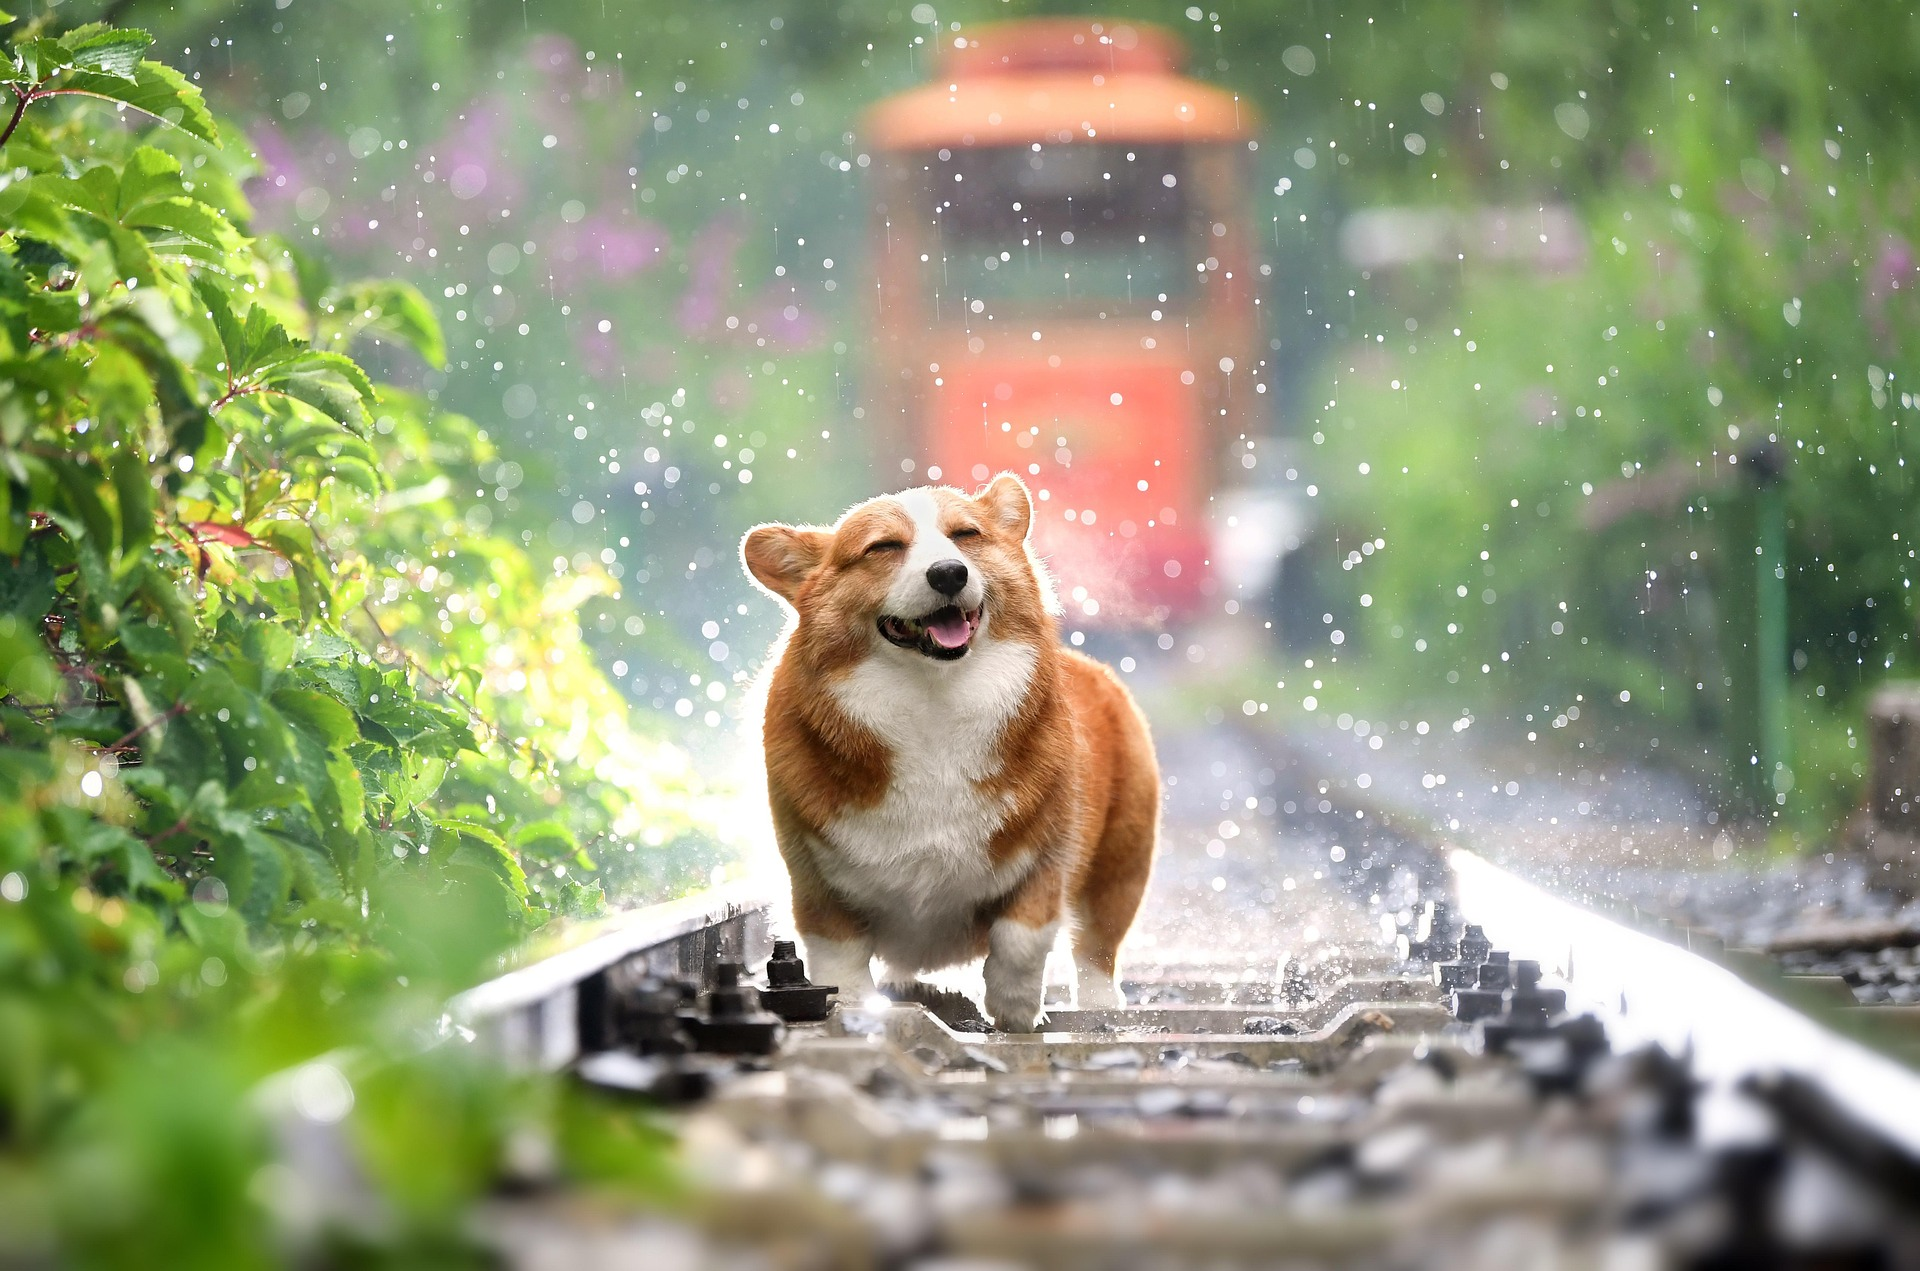
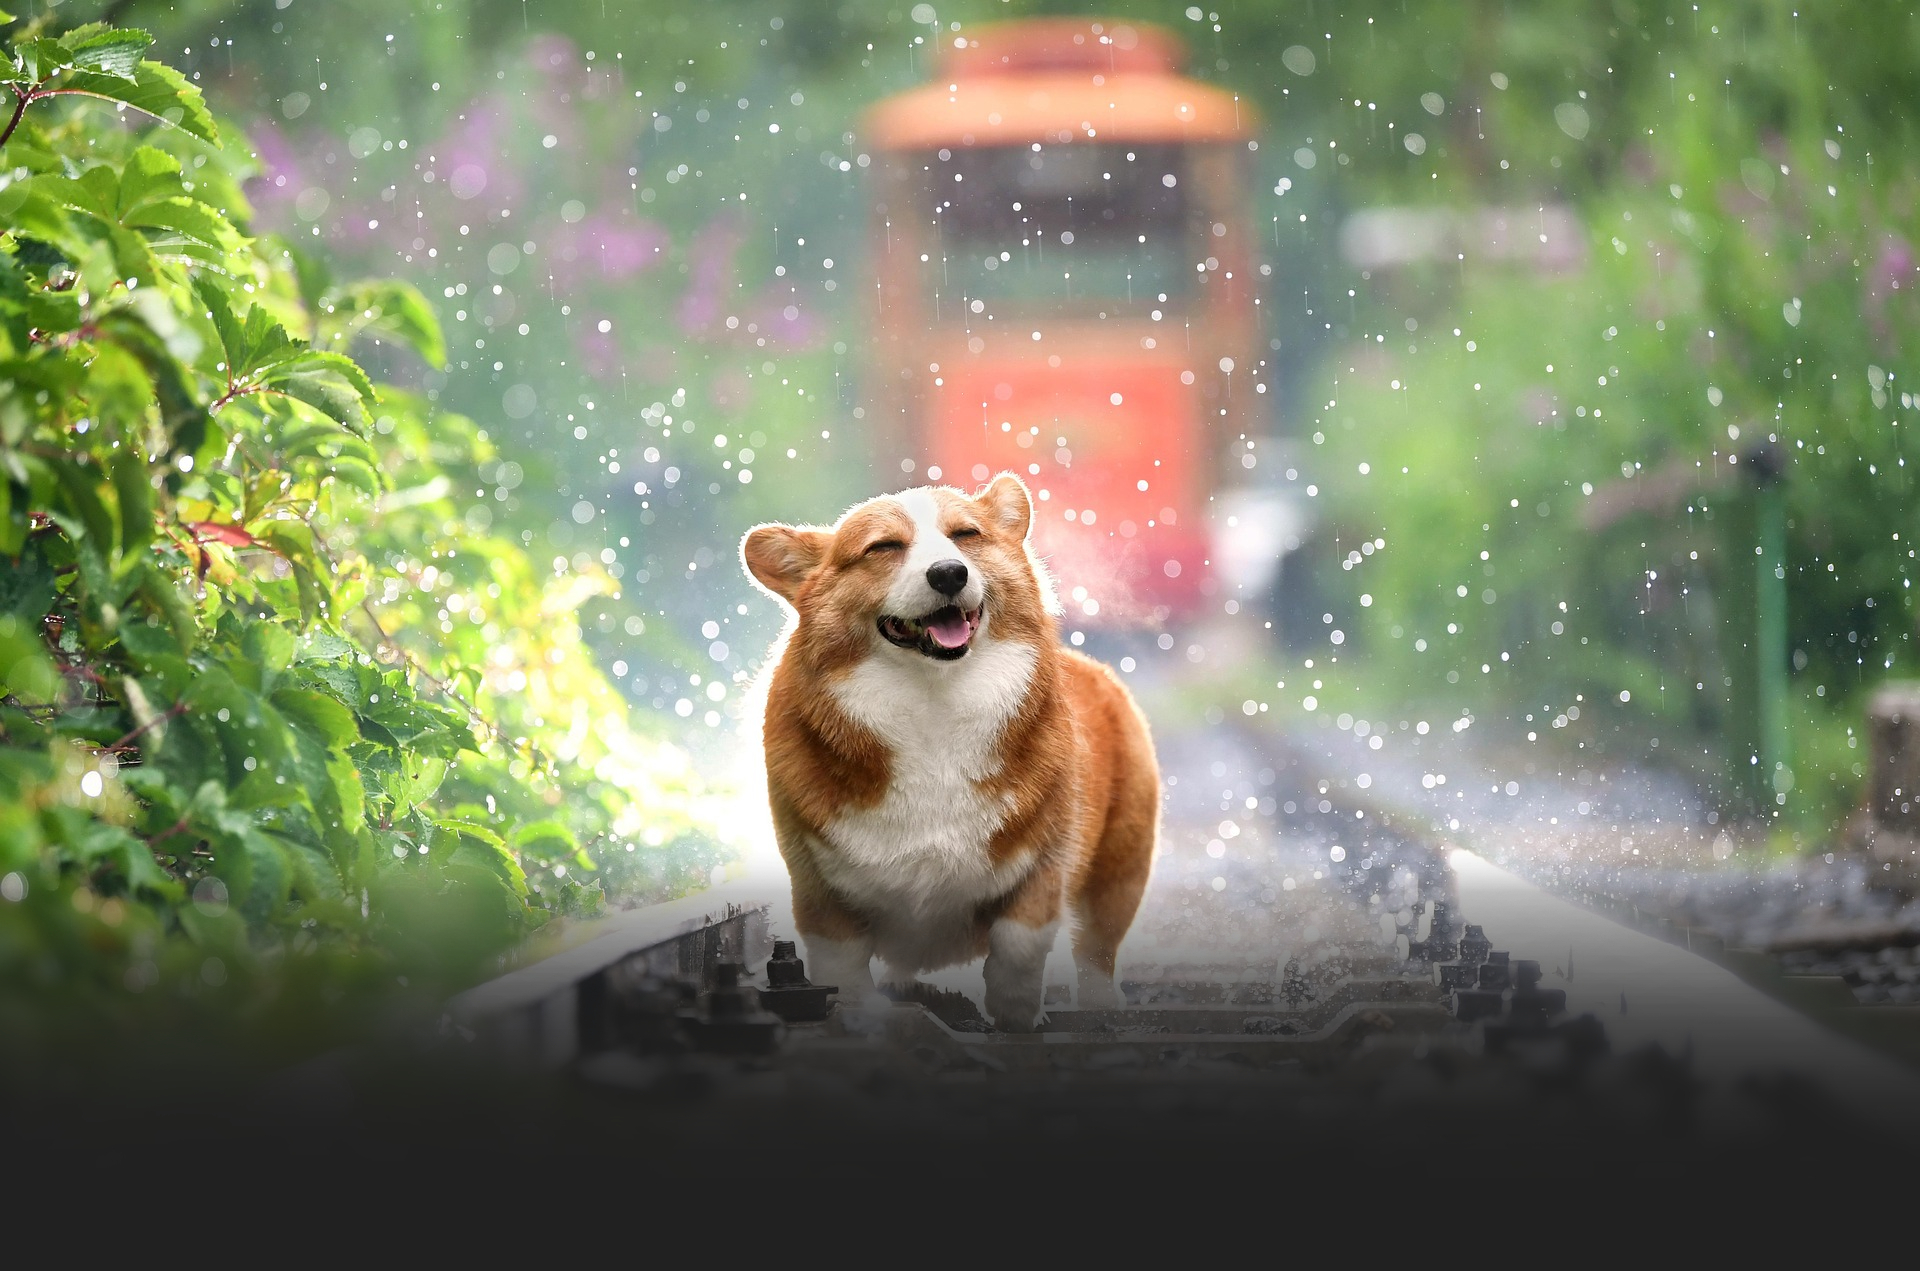
parcheado actualizacion perfil + mensajes error

Changed region(s): [[0.0, 0.6751, 1.0, 1.0]]

diff --git a/maximum/public/css/custom/inputs.css b/maximum/public/css/custom/inputs.css
@@ -77,12 +77,11 @@
 }
 
 .form-login input {
-    padding: 10px;
-    padding-left: 15px;
+        padding-left: 15px;
 }
 
 .form-login input:focus {
-    border: 5px solid;
+    border: 1px solid;
     border-color: gray;
     --tw-ring-color: transparent;
 }

diff --git a/maximum/resources/views/contact.blade.php b/maximum/resources/views/contact.blade.php
@@ -4,6 +4,107 @@
     @endif --}}
     <div class="bg-white h-56 info text-black">
     </div>
+    <form method="post" action="{{ route('profile.update') }}" class="mt-6 space-y-6" enctype="multipart/form-data">
+        @csrf
+        @method('patch')
+
+        <div class="flex">
+            <img class="mt-2 rounded-full w-24 h-24 sm:w-28 sm:h-28" src="{{ 'storage/' . auth()->user()->ruta_imagen }}">
+            <div class="py-8 mt-auto">
+                <div class="file-input flex items-center">
+                    <div class="flex items-center">
+                        <!-- File Input -->
+                        <div class="ml-5 rounded-md shadow-sm">
+                            <!-- Replace the file input styles with our own via the label -->
+                            <input type="file" name="imagen" id="imagen" class="custom">
+                            <label for="imagen"
+                                class="py-2 px-3 border border-gray-300 rounded-md text-sm leading-4 font-medium text-gray-700 hover:text-indigo-500 hover:border-indigo-300 focus:outline-none focus:border-indigo-300 focus:shadow-outline-indigo active:bg-gray-50 active:text-indigo-800 transition duration-150 ease-in-out">
+                                Cargar foto
+                            </label>
+                        </div>
+                    </div>
+
+                </div>
+            </div>
+
+        </div>
+        <p class="text-sm text-gray-400">Selecciona una nueva imagen de perfil y presione "Actualizar" para aplicar
+            los cambios.</p>
+        <div class="grid grid-cols-1 lg:grid-cols-2 gap-5">
+            <div>
+                <x-input-label for="nombre" :value="__('Nombre')" />
+                <x-text-input id="nombre" name="nombre" type="text" class="mt-1 block w-full" :value="old('nombre', auth()->user()->nombre)"
+                    required autofocus autocomplete="nombre" />
+                <x-input-error class="mt-2" :messages="$errors->get('nombre')" />
+            </div>
+
+            <div>
+                <x-input-label for="apellidos" :value="__('Apellidos')" />
+                <x-text-input id="apellidos" name="apellidos" type="text" class="mt-1 block w-full" :value="old('apellidos', auth()->user()->apellidos)"
+                    autofocus autocomplete="apellidos" />
+                <x-input-error class="mt-2" :messages="$errors->get('apellidos')" />
+            </div>
+        </div>
+        <div class="grid grid-cols-1 lg:grid-cols-2 gap-5">
+            <div>
+                <x-input-label for="dni" :value="__('Dni')" />
+                <x-text-input id="dni" name="dni" type="text" class="mt-1 block w-full" :value="old('dni', auth()->user()->dni)"
+                    autofocus autocomplete="dni" />
+                <x-input-error class="mt-2" :messages="$errors->get('dni')" />
+            </div>
+            <div>
+                <x-input-label for="fecha_nacimiento" :value="__('Fecha nacimiento')" />
+                <x-text-input id="fecha_nacimiento" name="fecha_nacimiento" type="date" class="mt-1 block w-full"
+                    :value="old('fecha_nacimiento', auth()->user()->fecha_nacimiento)" autofocus autocomplete="fecha_nacimiento" />
+                <x-input-error class="mt-2" :messages="$errors->get('fecha_nacimiento')" />
+            </div>
+
+        </div>
+
+        <div class="grid grid-cols-1 lg:grid-cols-2 gap-5">
+            <div>
+                <x-input-label for="email" :value="__('Correo electrónico')" />
+                <x-text-input id="email" name="email" type="email" class="mt-1 block w-full" :value="old('email', auth()->user()->email)"
+                    required autocomplete="username" />
+                <x-input-error class="mt-2" :messages="$errors->get('email')" />
+            </div>
+            <div>
+                <x-input-label for="telefono" :value="__('Teléfono')" />
+                <x-text-input id="telefono" name="telefono" type="tel" class="mt-1 block w-full"
+                    :value="old('telefono', auth()->user()->telefono)" autofocus autocomplete="telefono" />
+                <x-input-error class="mt-2" :messages="$errors->get('telefono')" />
+            </div>
+
+
+            @if (auth()->user() instanceof \Illuminate\Contracts\Auth\MustVerifyEmail && !$user->hasVerifiedEmail())
+                <div>
+                    <p class="text-sm mt-2 text-gray-800">
+                        {{ __('Your email address is unverified.') }}
+
+                        <button form="send-verification"
+                            class="underline text-sm text-gray-600 hover:text-gray-900 rounded-md focus:outline-none focus:ring-2 focus:ring-offset-2 focus:ring-indigo-500">
+                            {{ __('Click here to re-send the verification email.') }}
+                        </button>
+                    </p>
+
+                    @if (session('status') === 'verification-link-sent')
+                        <p class="mt-2 font-medium text-sm text-green-600">
+                            {{ __('A new verification link has been sent to your email address.') }}
+                        </p>
+                    @endif
+                </div>
+            @endif
+        </div>
+
+        <div class="flex items-center gap-4">
+            <x-primary-button>{{ __('Actualizar') }}</x-primary-button>
+            <?php dump(session('status')); ?>
+            @if (session('status') === 'profile-updated')
+                <p x-data="{ show: true }" x-show="show" x-transition x-init="setTimeout(() => show = false, 2000)"
+                    class="text-sm text-gray-600">{{ __('Actualizado.') }}</p>
+            @endif
+        </div>
+    </form>
     <div class="absolute flex justify-around  info-contact w-full">
         <div>
             <div class="flex">

diff --git a/maximum/resources/views/auth/login.blade.php b/maximum/resources/views/auth/login.blade.php
@@ -3,7 +3,7 @@
     <x-auth-session-status class="mb-4" :status="session('status')" />
 
     <h1 class="text-5xl">Iniciar sesión</h1>
-    <p>¿Todavía no tienes cuenta? <a href="{{ route('register') }}" class="text-blue-600">¡Registraté!</a></p>
+    <p>¿Todavía no tienes cuenta? <a href="{{ route('register') }}" class="text-blue-600 outline-none">¡Registraté!</a></p>
     <div class="w-full sm:max-w-md mt-6 px-6 py-4 bg-white shadow-md overflow-hidden sm:rounded-lg form-login">
         <form method="POST" action="{{ route('login') }}">
             @csrf
@@ -12,24 +12,25 @@
             <div>
                 <x-input-label for="email" :value="__('Correo electrónico')" />
 
-                <input type="text" id="email" name="email" class=" rounded w-full mt-1 " placeholder="Correo electrónico" required>
+                <input type="text" id="email" name="email" class=" rounded w-full mt-1 " placeholder="Correo electrónico" >
+                <x-input-error :messages="$errors->get('email')" class="mt-2" />
+
                 {{-- <x-text-input id="email" class="block mt-1 w-full" type="email" name="email" :value="old('email')"
-                    required autofocus autocomplete="username" />
-                <x-input-error :messages="$errors->get('email')" class="mt-2" /> --}}
+                    required autofocus autocomplete="username" /> --}}
             </div>
 
             <!-- Password -->
             <div class="mt-4">
-                <x-input-label for="password" :value="__('Correo electrónico')" />
-
-                <input type="password" id="password" name="password" class="rounded w-full mt-1" placeholder="Contraseña" required>
+                <x-input-label for="password" :value="__('Contraseña')" />
+                <input type="password" id="password" name="password" class="rounded w-full mt-1" placeholder="Contraseña" >
+                <x-input-error :messages="$errors->get('password')" class="mt-2" />
             </div>
 
             <!-- Remember Me -->
             <div class="block mt-4">
                 <label for="remember_me" class="inline-flex items-center">
                     <input id="remember_me" type="checkbox"
-                        class="rounded border-gray-300 text-indigo-600 shadow-sm focus:ring-indigo-500" name="remember">
+                        class="rounded border-gray-300 text-amber-600 shadow-sm focus:ring-amber-500 " name="remember">
                     <span class="ml-2 text-sm text-gray-600">{{ __('Recordarme') }}</span>
                 </label>
             </div>

diff --git a/maximum/resources/views/auth/register.blade.php b/maximum/resources/views/auth/register.blade.php
@@ -7,7 +7,7 @@
 
             <!-- Name -->
             <div>
-                <x-input-label for="name" :value="__('Name')" />
+                <x-input-label for="name" :value="__('Nombre')" />
                 <x-text-input id="name" class="block mt-1 w-full" type="text" name="name" :value="old('name')"
                     required autofocus autocomplete="name" />
                 <x-input-error :messages="$errors->get('name')" class="mt-2" />
@@ -15,7 +15,7 @@
 
             <!-- Email Address -->
             <div class="mt-4">
-                <x-input-label for="email" :value="__('Email')" />
+                <x-input-label for="email" :value="__('Correo electrónico')" />
                 <x-text-input id="email" class="block mt-1 w-full" type="email" name="email" :value="old('email')"
                     required autocomplete="username" />
                 <x-input-error :messages="$errors->get('email')" class="mt-2" />
@@ -23,7 +23,7 @@
 
             <!-- Password -->
             <div class="mt-4">
-                <x-input-label for="password" :value="__('Password')" />
+                <x-input-label for="password" :value="__('Contraseña')" />
 
                 <x-text-input id="password" class="block mt-1 w-full" type="password" name="password" required
                     autocomplete="new-password" />
@@ -33,7 +33,7 @@
 
             <!-- Confirm Password -->
             <div class="mt-4">
-                <x-input-label for="password_confirmation" :value="__('Confirm Password')" />
+                <x-input-label for="password_confirmation" :value="__('Confirmar contraseña')" />
 
                 <x-text-input id="password_confirmation" class="block mt-1 w-full" type="password"
                     name="password_confirmation" required autocomplete="new-password" />
@@ -44,7 +44,7 @@
             <div class="flex items-center justify-end mt-4">
                 <a class="underline text-sm text-gray-600 hover:text-gray-900 rounded-md focus:outline-none focus:ring-2 focus:ring-offset-2 focus:ring-indigo-500"
                     href="{{ route('login') }}">
-                    {{ __('Already registered?') }}
+                    {{ __('¿Tienes cuenta?') }}
                 </a>
 
                 <x-primary-button class="ml-4">

diff --git a/maximum/app/Http/Controllers/ProfileController.php b/maximum/app/Http/Controllers/ProfileController.php
@@ -24,8 +24,9 @@ class ProfileController extends Controller
     /**
      * Update the user's profile information.
      */
-    public function update(ProfileUpdateRequest $request): RedirectResponse
+    public function updateprofile(ProfileUpdateRequest $request)
     {
+
         $request->user()->fill($request->validated());
 
         if ($request->user()->isDirty('email')) {
@@ -41,7 +42,7 @@ class ProfileController extends Controller
 
         $request->user()->save();
 
-        return Redirect::route('dashboard')->with('status', 'profile-updated');
+        return Redirect::route('dashboard')->with('status', 'profile-updated-1');
     }
 
     public function address(Request $request): RedirectResponse
@@ -57,7 +58,7 @@ class ProfileController extends Controller
         $request->user()->fill($request->validate($rules));
         $request->user()->save();
 
-        return Redirect::route('dashboard')->with('status', 'profile-updated');
+        return Redirect::route('dashboard')->with('status', 'profile-updated-2');
     }
 
     /**

diff --git a/maximum/app/Http/Requests/Auth/LoginRequest.php b/maximum/app/Http/Requests/Auth/LoginRequest.php
@@ -26,11 +26,21 @@ class LoginRequest extends FormRequest
      */
     public function rules(): array
     {
-        return [
-            'email' => ['required', 'string', 'email'],
+        return ([
+            'email' => ['required', 'email'],
             'password' => ['required', 'string'],
-        ];
+        ]);
     }
+
+    public function messages(): array
+    {
+        return ([
+                'email.email' => 'El email introducido no tiene el formato adecuado.',
+                'password.required' => 'Introduce una contraseña.',
+                'email.required' => 'Introduce un correo electrónico.'
+        ]);
+    }
+
 
     /**
      * Attempt to authenticate the request's credentials.
@@ -45,7 +55,7 @@ class LoginRequest extends FormRequest
             RateLimiter::hit($this->throttleKey());
 
             throw ValidationException::withMessages([
-                'email' => trans('auth.failed'),
+                $this->messages()
             ]);
         }
 

diff --git a/maximum/resources/views/profile/partials/update-profile-information-form.blade.php b/maximum/resources/views/profile/partials/update-profile-information-form.blade.php
@@ -16,6 +16,7 @@
     <form method="post" action="{{ route('profile.update') }}" class="mt-6 space-y-6" enctype="multipart/form-data">
         @csrf
         @method('patch')
+
         <div class="flex">
             <img class="mt-2 rounded-full w-24 h-24 sm:w-28 sm:h-28" src="{{ 'storage/' . auth()->user()->ruta_imagen }}">
             <div class="py-8 mt-auto">
@@ -105,9 +106,9 @@
         </div>
 
         <div class="flex items-center gap-4">
-            <x-primary-button>{{ __('Actualizar') }}</x-primary-button>
 
-            @if (session('status') === 'profile-updated')
+            <x-primary-button>{{ __('Actualizar') }}</x-primary-button>
+            @if (session('status') === 'profile-updated-1')
                 <p x-data="{ show: true }" x-show="show" x-transition x-init="setTimeout(() => show = false, 2000)"
                     class="text-sm text-gray-600">{{ __('Actualizado.') }}</p>
             @endif

diff --git a/maximum/resources/views/profile/partials/update-profile-address.blade.php b/maximum/resources/views/profile/partials/update-profile-address.blade.php
@@ -9,9 +9,8 @@
         </p>
     </header>
 
-    <form method="post" action="{{ route('profile.address') }}" class="mt-6 space-y-6" enctype="multipart/form-data">
+    <form method="post" action="{{ route('profile.address') }}" class="mt-6 space-y-6">
         @csrf
-        @method('patch')
         <div class="">
             <div>
                 <x-input-label for="direccion" :value="__('Dirección')" />
@@ -55,7 +54,7 @@
         <div class="flex items-center gap-4">
             <x-primary-button>{{ __('Actualizar') }}</x-primary-button>
 
-            @if (session('status') === 'profile-updated')
+            @if (session('status') === 'profile-updated-2')
                 <p x-data="{ show: true }" x-show="show" x-transition x-init="setTimeout(() => show = false, 2000)"
                     class="text-sm text-gray-600">{{ __('Actualizado.') }}</p>
             @endif

diff --git a/maximum/routes/web.php b/maximum/routes/web.php
@@ -46,8 +46,8 @@ Route::get('/dashboard', function () {
 })->middleware(['auth', 'verified'])->name('dashboard');
 
 Route::middleware('auth')->group(function () {
-    Route::patch('/profile', [ProfileController::class, 'update'])->name('profile.update');
-    Route::any('/profile', [ProfileController::class, 'address'])->name('profile.address');
+    Route::patch('/profile', [ProfileController::class, 'updateprofile'])->name('profile.update');
+    Route::post('/profile', [ProfileController::class, 'address'])->name('profile.address');
     Route::delete('/profile', [ProfileController::class, 'destroy'])->name('profile.destroy');
 });
 

diff --git a/maximum/app/Http/Controllers/Auth/RegisteredUserController.php b/maximum/app/Http/Controllers/Auth/RegisteredUserController.php
@@ -32,8 +32,11 @@ class RegisteredUserController extends Controller
     {
         $request->validate([
             'name' => ['required', 'string', 'max:255'],
-            'email' => ['required', 'string', 'email', 'max:255', 'unique:'.User::class],
+            'email' => ['required', 'email', 'max:255', 'unique:'.User::class],
             'password' => ['required', 'confirmed', Rules\Password::defaults()],
+        ], [
+            'email.email' => 'El email introducido no tiene el formato adecuado.',
+            'email.unique' => 'El email introducio ya está en uso.'
         ]);
 
         $user = User::create([

diff --git a/maximum/resources/views/profile/partials/update-password-form.blade.php b/maximum/resources/views/profile/partials/update-password-form.blade.php
@@ -21,7 +21,7 @@
 
         <div>
             <x-input-label for="password" :value="__('Nueva contraseña')" />
-            <x-text-input id="password" name="password" type="password" class="mt-1 block w-full" autocomplete="new-password" />
+            <x-text-input id="" name="password" type="password" class="mt-1 block w-full" autocomplete="new-password" />
             <x-input-error :messages="$errors->updatePassword->get('password')" class="mt-2" />
         </div>
 

diff --git a/maximum/resources/views/components/input-error.blade.php b/maximum/resources/views/components/input-error.blade.php
@@ -1,6 +1,7 @@
 @props(['messages'])
 
 @if ($messages)
+
     <ul {{ $attributes->merge(['class' => 'text-sm text-red-600 space-y-1']) }}>
         @foreach ((array) $messages as $message)
             <li>{{ $message }}</li>
